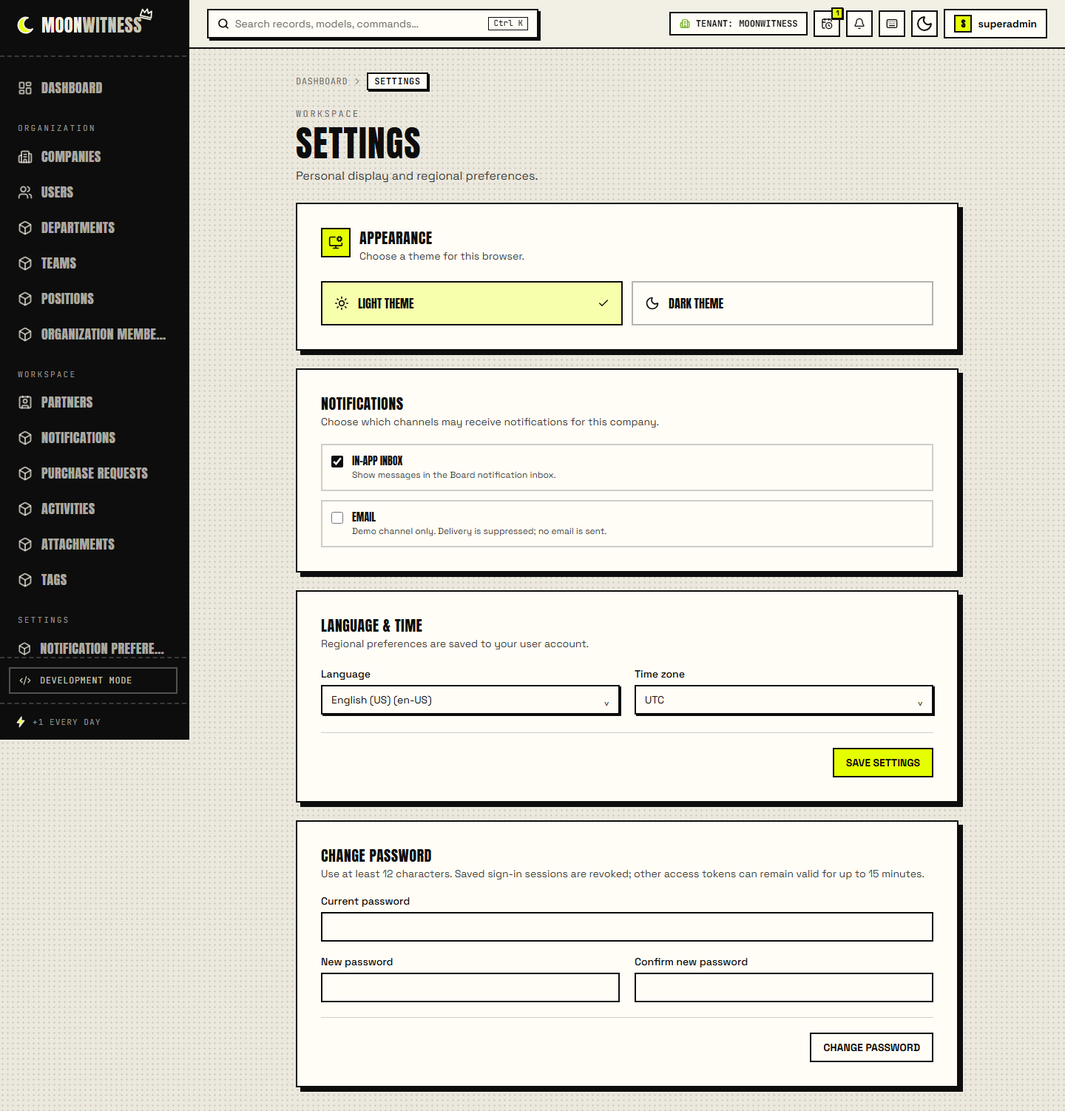
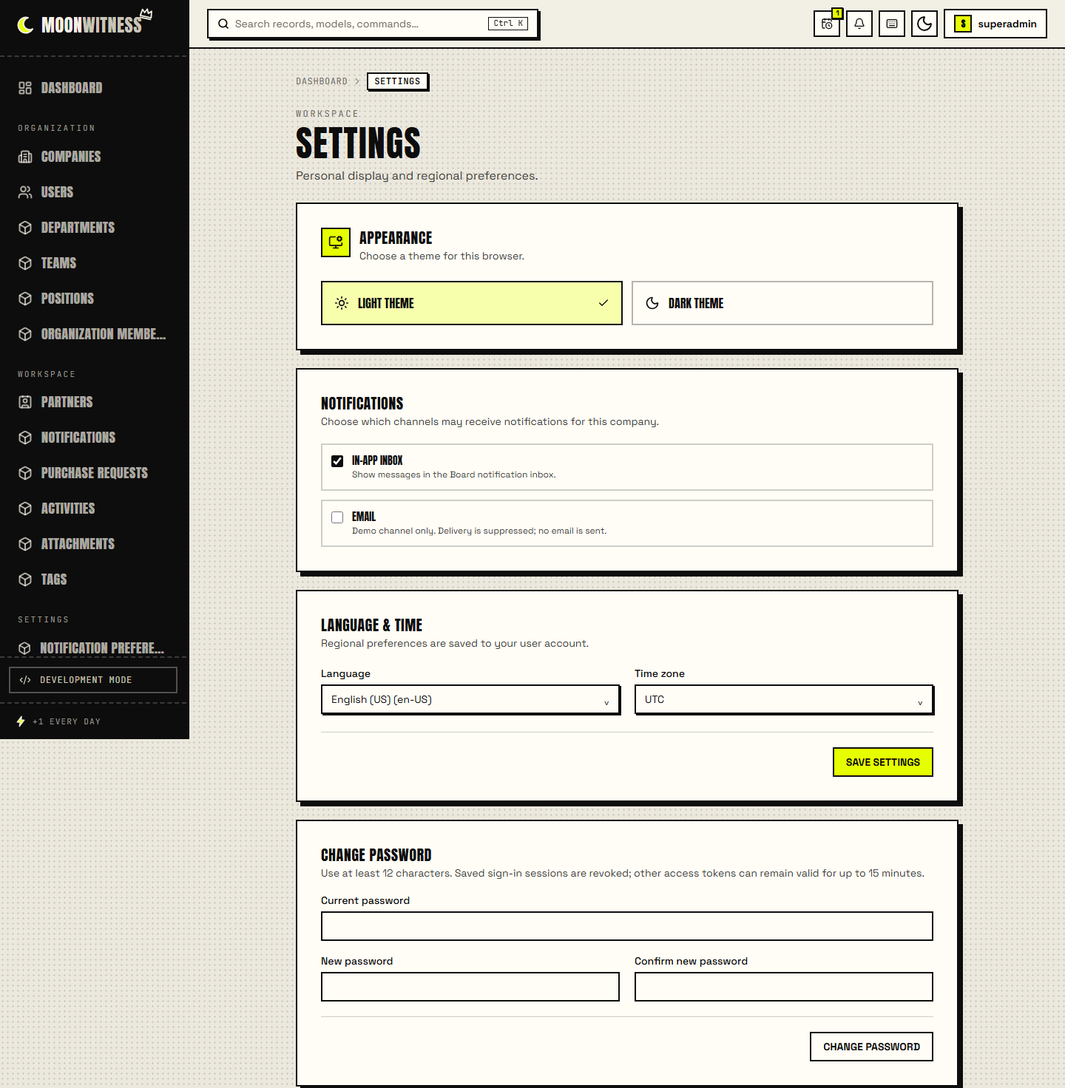
docs(board): record three-engine visual acceptance

Changed region(s): [[0.0, 0.0, 1.0, 1.0], [0.125, 0.0, 0.1562, 0.0312]]

diff --git a/docs/roadmap/evidence/M3.11.md b/docs/roadmap/evidence/M3.11.md
@@ -2,12 +2,13 @@
 
 ## Status
 
-- Status: implementation and local browser acceptance complete; hosted scheduled/manual matrix activation still awaits the workflow being available from GitHub's default branch.
+- Status: implementation and local browser acceptance complete, including a reproducible responsive visual matrix across all three engines; hosted scheduled PostgreSQL matrix activation still awaits the workflow being available from GitHub's default branch.
 - Date: 2026-10-04.
 - Executor: Codex.
 - Prerequisites M3.03, M3.06 and M0.06 are recorded in the roadmap evidence.
 - Local source SHA for test changes: `623d0fdee1a00920a86d883c653ee99aa421aea8` on `dev`.
 - Source commit pushed: `623d0fd` (`test(board): add scheduled browser matrix coverage`).
+- Current local visual matrix source SHA: `7658dc31f4b74be491cf1c8b240e89068a26aa7d` on `dev`.
 
 ## Coverage and implementation
 
@@ -20,22 +21,27 @@
 
 ## Verification
 
-| Command / scenario                                                                         | Result                                                                                                                                           | Evidence                                                                                                |
-| ------------------------------------------------------------------------------------------ | ------------------------------------------------------------------------------------------------------------------------------------------------ | ------------------------------------------------------------------------------------------------------- |
-| Chromium full Board E2E                                                                    | Pass, 18 tests, one worker                                                                                                                       | Isolated local PostgreSQL; full suite on Chromium before cross-engine timing assertions were stabilized |
-| `CI=true MW_E2E_BROWSER_MATRIX=true POSTGRES_TEST_URL=... pnpm test:e2e --project=firefox` | Pass, 18 tests, one worker                                                                                                                       | Isolated local PostgreSQL; auth, session, CRUD, import/export, navigation, resilience and visual audit  |
-| `CI=true MW_E2E_BROWSER_MATRIX=true POSTGRES_TEST_URL=... pnpm test:e2e --project=webkit`  | Pass, 18 tests, one worker                                                                                                                       | Isolated local PostgreSQL; same complete Board suite after record hydration stabilization               |
-| Firefox responsive login audit diagnostic run                                              | Initial failure exposed mid-animation opacity; rerun after the test fix passed                                                                   | Axe had reported the entire form while the parent Motion animation was incomplete                       |
-| WebKit record-edit diagnostic run                                                          | Initial full run had one 90-second pending-button timeout; targeted test and full rerun passed after adding record-ready/save-enabled assertions | Retry screenshot showed unchanged input and disabled Save button, consistent with the hydration race    |
+| Command / scenario                                                                         | Result                                                                                                                                           | Evidence                                                                                                                                                     |
+| ------------------------------------------------------------------------------------------ | ------------------------------------------------------------------------------------------------------------------------------------------------ | ------------------------------------------------------------------------------------------------------------------------------------------------------------ |
+| Chromium full Board E2E                                                                    | Pass, 18 tests, one worker                                                                                                                       | Isolated local PostgreSQL; full suite on Chromium before cross-engine timing assertions were stabilized                                                      |
+| `CI=true MW_E2E_BROWSER_MATRIX=true POSTGRES_TEST_URL=... pnpm test:e2e --project=firefox` | Pass, 18 tests, one worker                                                                                                                       | Isolated local PostgreSQL; auth, session, CRUD, import/export, navigation, resilience and visual audit                                                       |
+| `CI=true MW_E2E_BROWSER_MATRIX=true POSTGRES_TEST_URL=... pnpm test:e2e --project=webkit`  | Pass, 18 tests, one worker                                                                                                                       | Isolated local PostgreSQL; same complete Board suite after record hydration stabilization                                                                    |
+| Firefox responsive login audit diagnostic run                                              | Initial failure exposed mid-animation opacity; rerun after the test fix passed                                                                   | Axe had reported the entire form while the parent Motion animation was incomplete                                                                            |
+| WebKit record-edit diagnostic run                                                          | Initial full run had one 90-second pending-button timeout; targeted test and full rerun passed after adding record-ready/save-enabled assertions | Retry screenshot showed unchanged input and disabled Save button, consistent with the hydration race                                                         |
+| `pnpm test:e2e:visual:matrix`                                                              | Pass, 6 tests; Chromium, Firefox and WebKit each passed both visual audit tests                                                                  | 30 route/viewport/theme combinations and 10 desktop axe scans per engine against isolated in-memory SQLite; 99 screenshots captured across the three engines |
+| `pnpm typecheck`, `pnpm lint`, `pnpm format:check`, `pnpm docs:check`                      | Pass on source SHA `7658dc3`                                                                                                                     | Full workspace build/typecheck, repository lint/format, generated reference, docs links, examples and ORM docs tests                                         |
 
 Hosted push CI on source SHA `623d0fdee1a00920a86d883c653ee99aa421aea8` passed plan, quality, automation/actionlint, PostgreSQL integration, containers and Chromium browser E2E in [run 37193778351](https://github.com/bjo163/moonwitness-xi/actions/runs/37193778351). PR validation passed the same implementation lanes in [run 37193781227](https://github.com/bjo163/moonwitness-xi/actions/runs/37193781227). Their final `ci-gate` jobs require the separate sensitive-promotion CODEOWNER approval.
 
-The scheduled GitHub workflow has not yet run remotely. `gh workflow run browser-matrix.yml --ref dev` returns HTTP 404 because the new workflow is not present on the default branch. Remote scheduled-matrix activation and artifact validation remain open; do not mark M3.11 fully complete until that run passes.
+The scheduled GitHub workflow has not yet run remotely. `gh workflow run browser-matrix.yml --ref dev` returns HTTP 404 because the new workflow is not present on the default branch. Remote scheduled PostgreSQL matrix activation and artifact validation remain open; do not mark M3.11 fully complete until that run passes. The new `pnpm test:e2e:visual:matrix` runner proves current cross-engine responsive and accessibility behavior locally, but does not replace the full PostgreSQL-backed E2E suite.
 
 ## Files
 
 - `.github/workflows/browser-matrix.yml`
 - `apps/board/playwright.config.ts`
 - `apps/board/e2e/visual-audit.spec.ts`
+- `apps/board/playwright.visual.config.ts`
+- `apps/api/src/commands/visual-audit-server.ts`
+- `scripts/run-visual-matrix.mjs`
 - `apps/board/e2e/record-edit.spec.ts`
 - `docs/roadmap/evidence/M0.06.md`

diff --git a/docs/roadmap/evidence/M10.02.md b/docs/roadmap/evidence/M10.02.md
@@ -1,25 +1,25 @@
 # M10.02 — Board visual audit
 
-**Status: partial; local Chromium visual acceptance is verified, while PostgreSQL-backed browser and persisted-mutation acceptance remains open.** Fresh screenshots below were captured on 2026-10-06 from the current Board source after the mobile-header change (`f158658`). The current header uses a calendar icon for pending activities, a bell for notifications, and moves the mobile theme action into the user menu.
+**Status: partial; local Chromium/Firefox/WebKit visual acceptance is verified, while PostgreSQL-backed browser and persisted-mutation acceptance remains open.** Fresh screenshots below were captured on 2026-10-06 from the current Board source after the mobile-header change (`f158658`). The current header uses a calendar icon for pending activities, a bell for notifications, and moves the mobile theme action into the user menu.
 
 ## Environment and coverage
 
-- Source SHA: `d14c5c10a15686b35e29de70826be2856796c0f6` (visual runner, current Board source, and generated command references).
-- Reproduction command: `pnpm test:e2e:visual`. It serves the actual Vite Board and API from the current checkout using the normal addon seed path against an isolated in-memory SQLite database. No PostgreSQL service, user database, or production service is accessed. This quick visual runner is separate from the standard PostgreSQL E2E gate.
+- Source SHA: `7658dc31f4b74be491cf1c8b240e89068a26aa7d` (three-engine visual matrix and reusable runner).
+- Reproduction command: `pnpm test:e2e:visual:matrix`. It serves the actual Vite Board and API from the current checkout using the normal addon seed path against an isolated in-memory SQLite database. No PostgreSQL service, user database, or production service is accessed. This quick visual runner is separate from the standard PostgreSQL E2E gate.
 - Authenticated as the locally seeded `superadmin` account with the E2E-only password.
-- Ran `apps/board/e2e/visual-audit.spec.ts` in Chromium on Windows: **2 tests passed**. Login was exercised at 375px, 768px, and 1440px. Authenticated dashboard, partner list, partner form, profile, and settings were exercised at all three widths in both light and dark themes (30 route/viewport/theme combinations).
-- Checked document width against viewport width in every authenticated combination. All 10 desktop route/theme axe-core checks passed with zero violations. The audit also exercised keyboard navigation, opening/closing model navigation, the mobile header's accessible controls, and switching/restoring theme from the user menu.
+- Ran `apps/board/e2e/visual-audit.spec.ts` on Chromium, Firefox, and WebKit on Windows: **6 tests passed (2 per engine)**. Login was exercised at 375px, 768px, and 1440px. Authenticated dashboard, partner list, partner form, profile, and settings were exercised at all three widths in both light and dark themes (30 route/viewport/theme combinations per engine; 90 total).
+- Checked document width against viewport width in every authenticated combination. All 10 desktop route/theme axe-core checks passed with zero violations per engine (30 scans total). The audit also exercised keyboard navigation, opening/closing model navigation, the mobile header's accessible controls, and switching/restoring theme from the user menu.
 
 ## Results
 
-- All audited routes rendered meaningful content. No browser page errors or application runtime errors were reported; the only console info was Vite connection and React DevTools guidance.
-- No horizontal document overflow was observed at 1440px or 375px on audited routes.
+- All audited routes rendered meaningful content in each browser engine.
+- No horizontal document overflow was observed at 375px, 768px, or 1440px on audited routes.
 - Desktop profile/settings controls and seeded directory records are present. Seed coverage visibly includes 10 partners and 2 users.
 - The mobile dashboard hero title initially collided on its wrapped line. The Board heading now uses mobile-specific sizing/leading and the hero uses tighter small-screen padding; the current 375px capture confirms the title no longer overlaps and the document remains within the viewport.
 - Follow-up header review found unlabeled company/user controls, two indistinguishable bell icons, and a theme button crowding the 375px header. Commit `f158658` adds accessible labels, distinguishes the activity icon, and moves the mobile theme action into the user menu. Current-source screenshots and Playwright assertions verify these controls; the activities button is labelled “Pending activities” and uses `CalendarClock`, while notifications is labelled “Notifications” and uses `Bell`.
 - The first browser run exposed two fragile partner-row locators because partner name and country are each rendered twice in the same row. The assertions now select an exact-text match. It also exposed a real responsive test defect: the theme matrix tried to use the desktop theme button at mobile width, where the button is intentionally hidden. The matrix now switches themes through the user menu on mobile. The complete local visual suite passes after these fixes.
 - The normal PostgreSQL browser fixture remains unrun: Docker is unavailable and `127.0.0.1:55432` has no PostgreSQL listener. Thus persisted mutation/readback, PostgreSQL behavior, and permission-negative browser paths remain pending. The local SQLite visual run does not replace those acceptance checks.
-- The PNG set below has been regenerated from the current source and manually reviewed for the mobile header. It includes the fresh desktop/mobile dashboard, partner, profile, settings, and login captures; the complete 33-capture run is retained in ignored `test-results/visual-audit/` for local inspection. Windows-specific Playwright baselines were added for the three existing visual regression assertions so the checks run repeatably on this platform.
+- The committed PNG set has been regenerated from Chromium and manually reviewed for the mobile header. It includes desktop/mobile dashboard, partner, profile, settings, and login captures; the full 99-capture three-engine run is retained in ignored `test-results/visual-audit/` for local inspection. Windows-specific Playwright baselines were added for the three Chromium visual regression assertions so checks run repeatably on this platform.
 
 ## Evidence
 
@@ -36,4 +36,4 @@ Current-source screenshots are stored under `docs/roadmap/evidence/screenshots/`
 ## Remaining acceptance work
 
 - Run the browser E2E against an isolated PostgreSQL fixture, including an actual persisted mutation/readback and key negative permission paths.
-- Run the supported Chromium/Firefox/WebKit browser matrix and attach evidence for each supported engine. Current local visual coverage is Chromium only.
+- Run the hosted PostgreSQL-backed Chromium/Firefox/WebKit browser matrix and attach its artifacts/evidence.

diff --git a/ROADMAP.md b/ROADMAP.md
@@ -85,7 +85,7 @@ Urutan nomor bukan urutan aktivasi mutlak: misalnya required checks M1.06 baru d
 - [x] M3.08 Test import/export, attachment, activities, dan fitur Board lain jika ditemukan dalam inventarisasi. Bukti: [M3.08](docs/roadmap/evidence/M3.08.md), [push CI 37188917137](https://github.com/bjo163/moonwitness-xi/actions/runs/37188917137); seluruh technical lanes lulus setelah retry browser. Promotion PR #24 tetap menunggu approval CODEOWNER.
 - [x] M3.09 Uji error/empty/loading states, jaringan terputus, stale data, double submit, dan pencegahan kebocoran cache antar-user/company. Bukti: [M3.09](docs/roadmap/evidence/M3.09.md); 18 E2E, typecheck, lint, format, dan docs check lulus lokal.
 - [ ] M3.10 Simpan screenshot/trace saat gagal; buat visual baseline setelah audit manusia dan jangan auto-accept perubahan baseline. Tiga Linux Chromium pixel-diff snapshots, hosted Board E2E, artifact secret scan dan upload lulus pada CI `37347469966` (`336a19e`); aktivasi workflow visual-review manual masih menunggu workflow tersedia di `main`: [evidence](docs/roadmap/evidence/M3.10.md).
-- [ ] M3.11 Jalankan browser utama pada perubahan rutin dan browser tambahan pada regresi terjadwal; dokumentasikan coverage browser.
+- [ ] M3.11 Jalankan browser utama pada perubahan rutin dan browser tambahan pada regresi terjadwal; dokumentasikan coverage browser. `pnpm test:e2e:visual:matrix` kini lulus 6/6 Chromium/Firefox/WebKit, mencakup responsive/auth/theme/axe menggunakan fixture SQLite; PostgreSQL penuh pada hosted scheduled workflow masih menunggu promosi workflow ke `main`. [Evidence](docs/roadmap/evidence/M3.11.md).
 
 ## M4 — Backend, ORM, base, dan reliability (jalur C)
 
@@ -189,7 +189,7 @@ Gate: audit fitur existing sebelum membuat package. Jalankan berurutan berdasark
 ## M10 — Acceptance dan pembuktian satu siklus nyata
 
 - [ ] M10.01 Semua 32 baris feature matrix punya status, P0/P1, owner, assertion dan gap di [feature coverage report](docs/engineering/feature-coverage.md); unit suite 225 tes dan docs check lulus pada `7cd6e85`, hosted PostgreSQL integration lulus pada app-source SHA `da46f85`, tetapi Board E2E gagal dan beberapa negative/access acceptance P0 masih terbuka. [Evidence](docs/roadmap/evidence/M10.01.md).
-- [ ] M10.02 Audit visual Board selesai dan bukti screenshot tersimpan; browser E2E tidak sekadar mengecek halaman terbuka.
+- [ ] M10.02 Audit visual Board selesai dan bukti screenshot tersimpan; browser E2E tidak sekadar mengecek halaman terbuka. Local Chromium/Firefox/WebKit visual matrix lulus 6/6 pada 90 kombinasi responsive/theme dan 30 axe scan; PostgreSQL persisted-mutation serta permission-negative browser acceptance masih terbuka. [Evidence](docs/roadmap/evidence/M10.02.md).
 - [ ] M10.03 Berjalan: `pnpm verify` lulus penuh pada working tree berbasis `60d34e9` setelah `pnpm docs:generate` menyegarkan lima output generated; 98 API tests, seluruh addon/UI/assets/release/architecture/docs checks dan portal build lulus. Item tetap terbuka sampai required hosted checks lulus pada exact SHA; hosted run/log status terbaru tidak dapat diverifikasi karena GitHub API HTTP 403. [Evidence](docs/roadmap/evidence/M10.03.md).
 - [ ] M10.04 PostgreSQL integration benar-benar berjalan; upgrade, relasi/count, seed, dan izin negatif teruji.
 - [ ] M10.05 Image API/Board berjalan pada runner; health/readiness/shutdown dan konfigurasi container terverifikasi.
@@ -249,7 +249,8 @@ Jadwal GitHub bersifat best-effort; selalu sediakan manual dispatch dan pemeriks
 | 2026-10-05 | M9.02       | Selesai  | `30d66aa`; CI 37291684398                         | Typed storage provider, kompatibilitas UUID attachment lama, bounded reconciliation dan API lifecycle tests lulus pada semua technical CI lanes; promosi sensitif menunggu CODEOWNER approval.                                                                            |
 | 2026-10-04 | M3.09       | Selesai  | local verification; source commit pending         | Query cache diskop per akun/company, retryable network errors, submit guard, dan 18 E2E lulus; hosted CI ditambahkan setelah push                                                                                                                                         |
 | 2026-10-06 | M3.10       | Berjalan | CI 37347469966; `336a19e`; `dev`                  | Tiga baseline Linux Chromium dan Board E2E/secret-scan lulus; workflow visual-review manual menunggu aktivasi di `main`. Temuan clipping Country tetap terbuka untuk fix khusus: [evidence](docs/roadmap/evidence/M3.10.md)                                               |
-| 2026-10-04 | M3.11       | Berjalan | local verification; `dev`                         | Chromium, Firefox, WebKit masing-masing lulus 18 E2E; weekly browser matrix ditambahkan, aktivasi hosted masih menunggu default-branch workflow availability                                                                                                              |
+| 2026-10-06 | M3.11       | Berjalan | `7658dc3`; local visual matrix                    | Chromium, Firefox, dan WebKit lulus 2 test masing-masing pada 30 kombinasi route/viewport/theme; weekly PostgreSQL browser matrix belum aktif hosted karena workflow belum dipromosikan ke `main`. [Evidence](docs/roadmap/evidence/M3.11.md)                             |
+| 2026-10-06 | M10.02      | Parsial  | `7658dc3`; 99 visual captures                     | Tiga browser engine lulus responsive/theme/accessibility visual audit dan screenshots terkini diperbarui; full PostgreSQL browser acceptance masih pending. [Evidence](docs/roadmap/evidence/M10.02.md)                                                                   |
 | 2026-10-04 | M4.01       | Selesai  | `89d0e82`; CI 37194587412                         | Matriks test memverifikasi model, field, relasi, view, menu, dan external seed reference pada manifest base.                                                                                                                                                              |
 | 2026-10-04 | M4.02       | Selesai  | `b60293a`; CI 37194587412                         | Fresh/idempotent install, legacy upgrade, edit preservation, seed identity, dan concurrent replica startup diverifikasi pada PostgreSQL 17.                                                                                                                               |
 | 2026-10-04 | M4.03       | Selesai  | `b60293a`; CI 37194587412                         | Default accounts dan password initialization/reset/hash protection diuji; command root mengambil `SUPERADMIN_PASSWORD` dari config.                                                                                                                                       |

diff --git a/docs/roadmap/evidence/M8.08.md b/docs/roadmap/evidence/M8.08.md
@@ -16,21 +16,23 @@
 
 ## Verification
 
-| Check                                         | Result                                                                                                                             |
-| --------------------------------------------- | ---------------------------------------------------------------------------------------------------------------------------------- |
-| `pnpm test:platform-audit`                    | Pass, 5 tests; includes healthy/failing/stale/missing schedule fixtures and manual-run exclusion.                                  |
-| `pnpm automation:check:action-pins`           | Pass; all 18 workflow/composite files use validated immutable external action references.                                          |
-| `pnpm automation:check:workflow-trust`        | Pass; existing untrusted checkout boundaries remain valid.                                                                         |
-| `pnpm exec actionlint ...`                    | Pass for the new regression workflow and monthly audit workflow.                                                                   |
-| `pnpm lint` and `pnpm format:check`           | Pass repository-wide.                                                                                                              |
-| `pnpm typecheck`                              | Pass; all workspace builds and Board TypeScript checks completed.                                                                  |
-| `pnpm docs:check`                             | Pass; 12 generator/build tests, 7 link tests, examples, and generated-reference freshness checks completed.                        |
-| `pnpm docs:links`                             | Pass; 203 Markdown files, 16 navigation targets, and 7 link-validator tests.                                                       |
-| Shell automation / ShellCheck                 | Not available on this Windows runner (`/bin/bash` and `shellcheck` are missing); CI's Linux automation lane remains authoritative. |
-| Hosted scheduled run / missed schedule report | Pending; new workflow is not yet on default branch and hosted history is unavailable for verification from this workstation.       |
+| Check                                         | Result                                                                                                                                                                      |
+| --------------------------------------------- | --------------------------------------------------------------------------------------------------------------------------------------------------------------------------- |
+| `pnpm test:platform-audit`                    | Pass, 5 tests; includes healthy/failing/stale/missing schedule fixtures and manual-run exclusion.                                                                           |
+| `pnpm automation:check:action-pins`           | Pass; all 18 workflow/composite files use validated immutable external action references.                                                                                   |
+| `pnpm automation:check:workflow-trust`        | Pass; existing untrusted checkout boundaries remain valid.                                                                                                                  |
+| `pnpm exec actionlint ...`                    | Pass for the new regression workflow and monthly audit workflow.                                                                                                            |
+| `pnpm lint` and `pnpm format:check`           | Pass repository-wide.                                                                                                                                                       |
+| `pnpm typecheck`                              | Pass; all workspace builds and Board TypeScript checks completed.                                                                                                           |
+| `pnpm docs:check`                             | Pass; 12 generator/build tests, 7 link tests, examples, and generated-reference freshness checks completed.                                                                 |
+| `pnpm test:e2e:visual:matrix`                 | Pass on `7658dc31f4b74be491cf1c8b240e89068a26aa7d`: 6 tests across Chromium, Firefox, and WebKit; 30 route/viewport/theme combinations and 10 desktop axe scans per engine. |
+| `pnpm docs:links`                             | Pass; 203 Markdown files, 16 navigation targets, and 7 link-validator tests.                                                                                                |
+| Shell automation / ShellCheck                 | Not available on this Windows runner (`/bin/bash` and `shellcheck` are missing); CI's Linux automation lane remains authoritative.                                          |
+| Hosted scheduled run / missed schedule report | Pending; new workflow is not yet on default branch and hosted history is unavailable for verification from this workstation.                                                |
 
 ## Remaining acceptance
 
 - Promote exact source SHA through the normal protected gate, without deploying the application.
 - Verify the first successful deep-regression scheduled run and the freshness status on the next monthly audit.
+- The local visual matrix is a responsive/accessibility smoke layer only; it does not replace the full PostgreSQL E2E suite or prove that the scheduled GitHub matrix ran.
 - Confirm hosted schedule inventory contains the weekly browser, PostgreSQL/jobs/restore, CodeQL, Gitleaks and monthly audit workflows; investigate and record any failure instead of treating missing history as success.

diff --git a/docs/guide/reference/generated-api.md b/docs/guide/reference/generated-api.md
@@ -1,6 +1,6 @@
 # Generated API route reference
 
[2 lines of base64/hex data omitted]
 
 | Method | Path                                  |
 | ------ | ------------------------------------- |

diff --git a/docs/guide/reference/generated-models.md b/docs/guide/reference/generated-models.md
@@ -1,6 +1,6 @@
 # Generated model and addon reference
 
[2 lines of base64/hex data omitted]
 
 ## Addon `auth`
 
